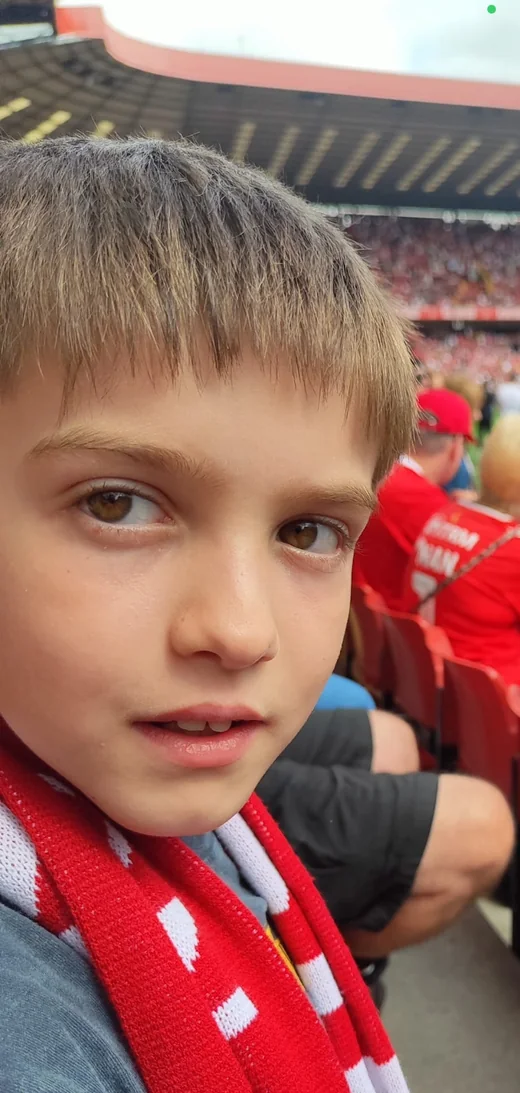
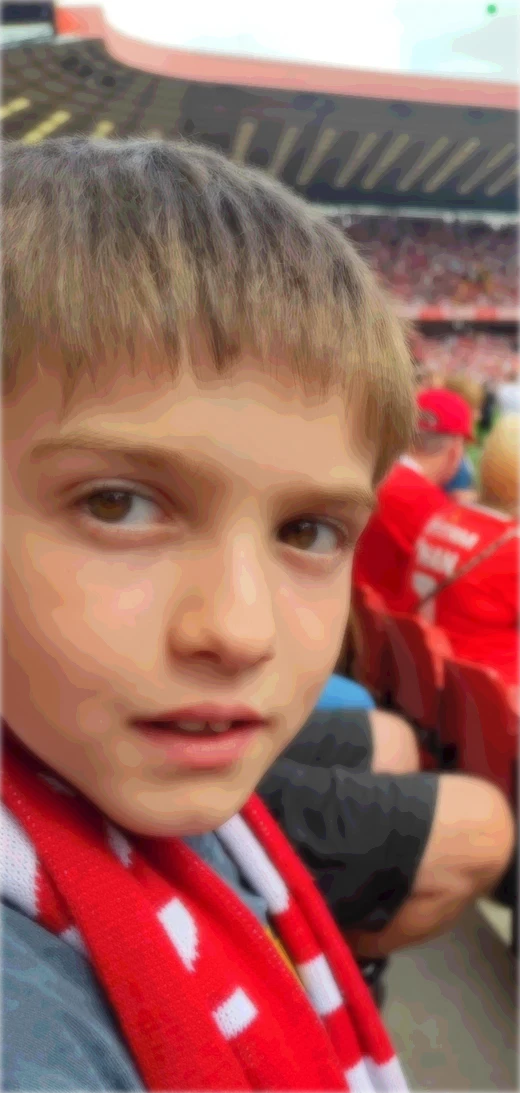
Privacy tidy: soften main photo, generic team name, drop Sunday/Year 6/Romanian details (#102)
Claude-Session: https://claude.ai/code/session_017eYJk2dewQsckke2BZCoDP

diff --git a/js/sats-english.js b/js/sats-english.js
@@ -21,7 +21,7 @@
         ['In the sentence "<u>Those</u> boots are mine", what word class is the underlined word?', 'determiner', ['pronoun', 'adjective', 'adverb'], 'A determiner comes before a noun and tells you which one. "Those" tells you which boots. (If it stood alone, like "Those are mine", it would be a pronoun.)'],
         ['Which word is a noun in this sentence? "The happiness in the stadium was amazing."', 'happiness', ['amazing', 'was', 'the'], 'Nouns name things, including feelings and ideas. "Happiness" is an abstract noun.'],
         ['Which word is a verb in this sentence? "After lunch, the children explored the castle."', 'explored', ['lunch', 'after', 'castle'], 'A verb is a doing or being word. "Explored" is what the children did.'],
-        ['Which word is an adverb in this sentence? "Tomorrow, we will visit Grandma in Romania."', 'Tomorrow', ['visit', 'Grandma', 'in'], 'An adverb can tell you when something happens. "Tomorrow" tells you when we will visit.'],
+        ['Which word is an adverb in this sentence? "Tomorrow, we will visit Grandma in Spain."', 'Tomorrow', ['visit', 'Grandma', 'in'], 'An adverb can tell you when something happens. "Tomorrow" tells you when we will visit.'],
         ['In the sentence "My dog is <u>kind</u>", what word class is the underlined word?', 'adjective', ['noun', 'adverb', 'verb'], '"Kind" describes the dog, so it is an adjective, even though it comes after the verb "is".'],
         ['Which word is a subordinating conjunction?', 'although', ['and', 'but', 'or'], 'Subordinating conjunctions start a subordinate clause: although, because, when, if, since, until, while. "And", "but" and "or" are coordinating conjunctions.'],
         ['Which word is a modal verb?', 'might', ['running', 'quickly', 'went'], 'Modal verbs show how likely or possible something is: can, could, will, would, shall, should, may, might, must.'],
@@ -74,7 +74,7 @@
         ['Which sentence uses the subjunctive?', 'If I were the manager, I would pick George.', ['If I was the manager, I would pick George.', 'I am the manager, so I pick George.', 'When I am the manager, I pick George.'], 'The subjunctive is used for wishes and "what if" situations: "If I were...", not "If I was...".'],
         ['Which verb completes the sentence? "Yesterday, the team ___ really well."', 'played', ['plays', 'play', 'playing'], '"Yesterday" means it happened in the past, so use the simple past: "played".'],
         ['Which modal verb shows that something is certain?', 'will', ['might', 'could', 'may'], '"Will" shows certainty. "Might", "could" and "may" show that something is only possible.'],
-        ['Which sentence is in the present progressive?', 'Dad is cooking sarmale.', ['Dad cooked sarmale.', 'Dad has cooked sarmale.', 'Dad cooks sarmale.'], 'The present progressive uses "am", "is" or "are" plus an -ing verb: "is cooking".'],
+        ['Which sentence is in the present progressive?', 'Dad is cooking pasta.', ['Dad cooked pasta.', 'Dad has cooked pasta.', 'Dad cooks pasta.'], 'The present progressive uses "am", "is" or "are" plus an -ing verb: "is cooking".'],
         ['What is the past tense of "catch"?', 'caught', ['catched', 'catching', 'cought'], '"Catch" is an irregular verb. Its past tense is "caught".'],
         ['Which sentence is in the future tense?', 'Forest will play Arsenal next week.', ['Forest played Arsenal last week.', 'Forest are playing Arsenal now.', 'Forest have played Arsenal.'], '"Will" plus a verb talks about the future: "will play".'],
         ['Which verb form completes the sentence? "By the time we arrived, the match ___."', 'had started', ['has started', 'starts', 'is starting'], 'The past perfect ("had" + past participle) shows something happened before another past event.'],

diff --git a/football.html b/football.html
@@ -11,7 +11,7 @@
 <meta name="apple-mobile-web-app-title" content="George">
 <link rel="apple-touch-icon" href="assets/images/app/apple-touch-icon.png">
   <title>Football | George's Nottingham Forest Page</title>
-  <meta name="description" content="George's football page: Nottingham Forest, favourite players, and his own Sunday league stats.">
+  <meta name="description" content="George's football page: Nottingham Forest, favourite players, and his own football.">
   <meta name="robots" content="noindex, nofollow">
   <link rel="canonical" href="https://georgeneagu.win/football.html">
 
@@ -19,13 +19,13 @@
   <meta property="og:type" content="website">
   <meta property="og:url" content="https://georgeneagu.win/football.html">
   <meta property="og:title" content="Football | George's Nottingham Forest Page">
-  <meta property="og:description" content="George's football page: Nottingham Forest, favourite players, and his own Sunday league stats.">
+  <meta property="og:description" content="George's football page: Nottingham Forest, favourite players, and his own football.">
   <meta property="og:image" content="https://georgeneagu.win/assets/images/share/football.png">
   <meta property="og:image:width" content="1200">
   <meta property="og:image:height" content="630">
   <meta name="twitter:card" content="summary_large_image">
   <meta name="twitter:title" content="Football | George's Nottingham Forest Page">
-  <meta name="twitter:description" content="George's football page: Nottingham Forest, favourite players, and his own Sunday league stats.">
+  <meta name="twitter:description" content="George's football page: Nottingham Forest, favourite players, and his own football.">
   <meta name="twitter:image" content="https://georgeneagu.win/assets/images/share/football.png">
 
   <link rel="stylesheet" href="css/fonts.css">
@@ -68,11 +68,11 @@
         <div class="hero-inner" style="align-items:flex-start;">
           <div class="hero-copy">
             <h1>Football is my favourite thing. Full stop.</h1>
-            <p class="lede">Once Forest got me, that was it, and I'm not changing. This page has the team, the players I rate most and how my own Sunday games are going.</p>
+            <p class="lede">Once Forest got me, that was it, and I'm not changing. This page has the team, the players I rate most and how my own games are going.</p>
           </div>
           <figure class="hero-photo hero-photo-wide reveal">
             <img src="assets/images/gallery/football-boots.webp" width="1200" height="900" alt="George's black football boots with white stripes" loading="eager">
-            <figcaption id="matchday-caption">My boots. Ready for Sunday.</figcaption>
+            <figcaption id="matchday-caption">My boots. Ready for match day.</figcaption>
           </figure>
         </div>
       </div>

diff --git a/sats.html b/sats.html
@@ -11,7 +11,7 @@
 <meta name="apple-mobile-web-app-title" content="George">
 <link rel="apple-touch-icon" href="assets/images/app/apple-touch-icon.png">
   <title>SATs Practice | George's School Zone</title>
-  <meta name="description" content="Year 6 SATs practice: maths, grammar, punctuation, spelling and reading, split into topics, with how to work out every answer.">
+  <meta name="description" content="SATs practice: maths, grammar, punctuation, spelling and reading, split into topics, with how to work out every answer.">
   <meta name="robots" content="noindex, nofollow">
   <link rel="canonical" href="https://georgeneagu.win/sats.html">
 
@@ -19,13 +19,13 @@
   <meta property="og:type" content="website">
   <meta property="og:url" content="https://georgeneagu.win/sats.html">
   <meta property="og:title" content="SATs Practice | George's School Zone">
-  <meta property="og:description" content="Year 6 SATs practice: maths, grammar, punctuation, spelling and reading, split into topics, with how to work out every answer.">
+  <meta property="og:description" content="SATs practice: maths, grammar, punctuation, spelling and reading, split into topics, with how to work out every answer.">
   <meta property="og:image" content="https://georgeneagu.win/assets/images/share/school.png">
   <meta property="og:image:width" content="1200">
   <meta property="og:image:height" content="630">
   <meta name="twitter:card" content="summary_large_image">
   <meta name="twitter:title" content="SATs Practice | George's School Zone">
-  <meta name="twitter:description" content="Year 6 SATs practice: maths, grammar, punctuation, spelling and reading, split into topics, with how to work out every answer.">
+  <meta name="twitter:description" content="SATs practice: maths, grammar, punctuation, spelling and reading, split into topics, with how to work out every answer.">
   <meta name="twitter:image" content="https://georgeneagu.win/assets/images/share/school.png">
 
   <link rel="stylesheet" href="css/fonts.css">
@@ -67,7 +67,7 @@
       <div class="wrap">
         <p class="eyebrow"><a href="school.html" class="crumb">School Zone</a> · SATs</p>
         <h1>SATs practice 📝</h1>
-        <p class="lede">The Year 6 SATs are in May. Pick a topic and answer the questions. If you get one wrong, you'll see exactly how to work it out, so next time you'll nail it.</p>
+        <p class="lede">The SATs are in May. Pick a topic and answer the questions. If you get one wrong, you'll see exactly how to work it out, so next time you'll nail it.</p>
       </div>
     </section>
 

diff --git a/js/content.js b/js/content.js
@@ -32,7 +32,7 @@ window.SITE = {
 
   /* ---------- FOOTBALL ---------- */
   football: {
-    matchdayCaption: 'My boots. Ready for Sunday.',
+    matchdayCaption: 'My boots. Ready for match day.',
 
     // How George became a Forest fan, in his own words.
     fanStory: 'I started supporting Forest in September 2024, when they beat Liverpool 1-0 at Anfield. Callum Hudson-Odoi scored the winner, and Liverpool went on to win the league that season. I have been Forest ever since.',
@@ -71,7 +71,7 @@ window.SITE = {
     ],
 
     myTeam: {
-      name: 'Thamesmead Rangers U11 FC',
+      name: 'My local team',
       position: 'Striker (and goalie when I play with my dad)',
       // George's own words. Shown instead of goal numbers.
       quote: 'I\'m not always the one scoring, but I\'m always in the game.',
@@ -169,12 +169,12 @@ window.SITE = {
       },
     ],
     termGoal: {
-      title: 'Do well in Year 6 and pass my SATs',
+      title: 'Do well this year and pass my SATs',
       // The three steps along the progress bar.
       steps: [['📚', 'Autumn term'], ['✏', 'Spring term'], ['🎓', 'SATs in May']],
       // How many steps are finished: 0, 1, 2 or 3 (3 = goal done!)
       badgesDone: 0,
-      progressNote: 'Year 6 has just started. I get lots of questions right, and when I get some wrong I learn from them.',
+      progressNote: 'The new school year has just started. I get lots of questions right, and when I get some wrong I learn from them.',
     },
   },
 
@@ -186,7 +186,6 @@ window.SITE = {
       { emoji: '🎸', title: 'Rock music', text: 'AC/DC are my favourite band. Turn it up!', jukebox: true },
       // dogPhoto: shows a new Golden Retriever photo (dog.ceo) on every visit.
       { emoji: '🐶', title: 'Dogs', text: 'Golden Retrievers are the best breed, because they are kind, chill and always happy.', dogPhoto: true },
-      { emoji: '🇷🇴', title: 'Romanian food', text: 'Sarmale. Nothing beats them.' },
       { emoji: '💡', title: 'My invention', text: 'If I could invent anything, it would be a ball made for scoring from the halfway line.' },
     ],
     funFacts: [
@@ -202,7 +201,6 @@ window.SITE = {
       { q: 'Best thing about school?', a: 'PE, and seeing my mates.' },
       { q: 'Favourite band?', a: 'AC/DC.' },
       { q: 'Best dog breed?', a: 'Golden Retriever.' },
-      { q: 'Best Romanian food?', a: 'Sarmale.' },
       { q: 'Club and country?', a: 'Nottingham Forest and England. It\'s coming home!' },
     ],
   },

diff --git a/about.html b/about.html
@@ -70,7 +70,7 @@
             <p class="lede">The things I like that aren't football, games or school.</p>
           </div>
           <figure class="banner-figure reveal" aria-hidden="true">
-            <span class="banner-deco"><span style="top:14%;left:18%;">🎸</span><span style="top:68%;left:16%;">🐶</span><span style="top:18%;left:70%;">🇷🇴</span><span style="top:72%;left:68%;">💡</span></span>
+            <span class="banner-deco"><span style="top:14%;left:18%;">🎸</span><span style="top:68%;left:16%;">🐶</span><span style="top:18%;left:70%;">⚽</span><span style="top:72%;left:68%;">💡</span></span>
             <span class="icon-badge red"><svg viewBox="0 0 24 24" fill="none" stroke="currentColor" stroke-width="1.6"><path d="M12 21s-7-4.5-9.5-9A5.5 5.5 0 0 1 12 6a5.5 5.5 0 0 1 9.5 6c-2.5 4.5-9.5 9-9.5 9z"/></svg></span>
           </figure>
         </div>

diff --git a/index.html b/index.html
@@ -102,7 +102,7 @@
           <a class="hub-tile football reveal" href="football.html" aria-label="Football: meet my favourite players">
             <span class="hub-icon" aria-hidden="true"><svg viewBox="0 0 24 24" fill="none" stroke="currentColor" stroke-width="1.8"><circle cx="12" cy="12" r="9"/><path d="M12 7l3.5 2.5-1.3 4.1H9.8L8.5 9.5z"/></svg></span>
             <h2>Football</h2>
-            <p>See my team, my favourite players, and how I'm doing on a Sunday.</p>
+            <p>See my team, my favourite players, and how my own games are going.</p>
             <span class="card-arrow" aria-hidden="true">Meet my favourite players <svg viewBox="0 0 24 24" fill="none" stroke="currentColor" stroke-width="2"><path d="M5 12h14M13 6l6 6-6 6"/></svg></span>
           </a>
           <a class="hub-tile gaming reveal" href="games.html" aria-label="Video Games: see my top scores">

diff --git a/worker/coach.js b/worker/coach.js
@@ -21,7 +21,7 @@ const BACKUP_MODEL = '@cf/meta/llama-3.1-8b-instruct';
 const DAILY_CAP = 40;          // for everyone together; the page allows 20 per device
 const PER_MINUTE = 6;          // stops anyone firing requests in a loop
 
-const SYSTEM = `You are "Coach", a friendly, patient maths and English tutor for a 10-year-old boy in Year 6 in England who is preparing for his KS2 SATs.
+const SYSTEM = `You are "Coach", a friendly, patient maths and English tutor for a child in England who is preparing for his KS2 SATs.
 You will be given ONE SATs practice question he answered wrongly, the correct answer, his answer, and the normal explanation.
 Your only job: explain how to get the correct answer in a different, simpler way than the normal explanation.
 Rules:

diff --git a/school.html b/school.html
@@ -112,7 +112,7 @@
       <div class="wrap reveal">
         <div class="section-head">
           <h2 id="sats-title">SATs practice 📝</h2>
-          <p>Every topic from the Year 6 SATs papers, with how to work out every answer.</p>
+          <p>Every topic from the SATs papers, with how to work out every answer.</p>
         </div>
         <div data-gzr="sats" data-href="sats.html" style="margin-bottom:var(--s5,24px)"></div>
         <div class="grid-3">

diff --git a/quiz-zone/gz-rewards.js b/quiz-zone/gz-rewards.js
@@ -19,7 +19,7 @@
   const KEY = "gz_rewards_v1";
   const SATS_KEY = "gz_sats_v1";
 
-  // The SATs week for Year 6. Change this one line if the school says different.
+  // The SATs week. Change this one line if the school says different.
   const SATS_DATE = "2027-05-10";
   const SATS_LABEL = "week of 10 May 2027";
 
